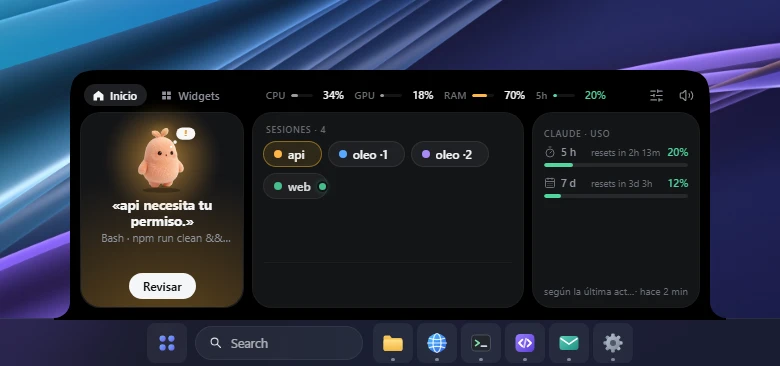
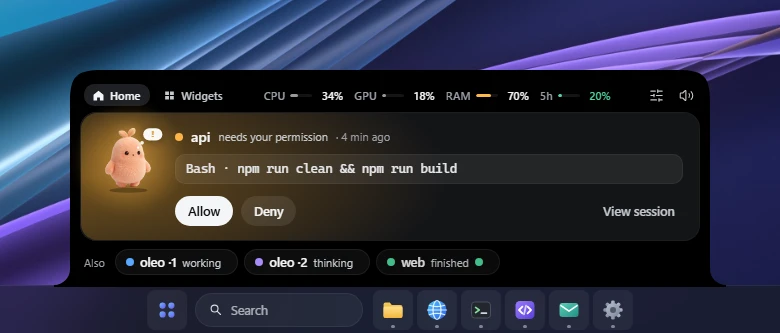
release: 0.2.3
Version 0.2.3 in package.json, Cargo.toml, tauri.conf.json and the two lock
files, with a changelog entry for the redesign of the island, Settings and
the agents list.

The README pictures are taken again from the new screens, in English. The
screenshot script takes --lang (en-US by default) and a shot's own
localStorage, and the stage starts the widgets, so the Shelf picture shows its
mosaic with a to-do list and a timer. Alt texts that no longer matched are
corrected in both READMEs.

windows/README.md now says why the installed oleo.exe has another hash than
the one in SHA256SUMS.txt (three bytes the bundler changes) and that the
installer's hash is the one to check.

diff --git a/windows/dev/claude-preview.ts b/windows/dev/claude-preview.ts
@@ -27,6 +27,7 @@ import { Display } from "../src/core/layout";
 import { handleHook, tellModel, type HookPayload } from "../src/island/hooks";
 import { Island } from "../src/island/island";
 import { Sound } from "../src/core/sound";
+import { startWidgets } from "../src/widgets";
 import { EXAMPLE_REPLY, LONG_REPLY } from "./preview-b/session-data";
 import { checkAutoHide, checkShelfSwipe, checkSlots, checkSwipe, checkUsage, checkWake } from "./preview-b/island-check";
 import { finishStage, installStage, placeIsland, rng } from "./stage";
@@ -853,6 +854,8 @@ const ask = (question = false) => {
   handleHook(island, { ...base, ...of, hook_event_name: "PermissionRequest", request_id: `shelf-ask-${++asked}`, ...tool });
 };
 Object.assign(window, { ask });
+// What the made-up Shelf kept (localStorage "oleo.shelf.fake.<widget>"): read once, as main.ts does, so a to-do list or a timer shows.
+startWidgets();
 if (params.get("tab") === "shelf") {
   island.setView("shelf");
   // The swipe's rules on a clock moved by hand (the console says how it went). With check=swipe, on the

diff --git a/windows/dev/stage/stage.ts b/windows/dev/stage/stage.ts
@@ -306,7 +306,7 @@ const terminal = () => `
 <p><b class="pw">PS</b> C:\\Users\\oleo\\code\\oleo&gt; <b class="cm">npx tsc --noEmit</b></p>
 <p class="o ok">Found 0 errors.</p>
 <p><b class="pw">PS</b> C:\\Users\\oleo\\code\\oleo&gt; <b class="cm">cargo test --workspace</b></p>
-<p class="o">   Compiling oleo v0.2.2 (C:\\Users\\oleo\\code\\oleo\\windows\\src-tauri)</p>
+<p class="o">   Compiling oleo v0.2.3 (C:\\Users\\oleo\\code\\oleo\\windows\\src-tauri)</p>
 <p class="o">    Finished test profile [unoptimized + debuginfo] target(s) in 14.20s</p>
 <p class="o">     Running unittests src\\lib.rs</p>
 <p class="o">running 41 tests</p>

diff --git a/README.md b/README.md
@@ -46,7 +46,7 @@ Oleo works with **Claude Code**, **Codex** and **Cursor**. It runs on your
 machine and talks to nothing but your own agents: no account, no telemetry.
 
 > [!NOTE]
-> Oleo is an early release (version 0.2.2). Windows 10 and 11 are the main
+> Oleo is an early release (version 0.2.3). Windows 10 and 11 are the main
 > target; the same code also builds for Linux, which is experimental. The
 > interface is in English, Spanish and Portuguese. Oleo is an independent project and is not
 > affiliated with or endorsed by Anthropic, OpenAI or Cursor.
@@ -55,7 +55,7 @@ machine and talks to nothing but your own agents: no account, no telemetry.
 
 <div align="center">
 
-<picture><source media="(prefers-color-scheme: light)" srcset="docs/assets/screens/hero-light.webp"><img src="docs/assets/screens/hero-dark.webp" alt="Oleo open on the Home view at 125% scaling: the card of the session that needs permission with Durazno, the three sessions as chips, and the CPU, GPU, RAM and Claude usage readings." width="860"></picture>
+<picture><source media="(prefers-color-scheme: light)" srcset="docs/assets/screens/hero-light.webp"><img src="docs/assets/screens/hero-dark.webp" alt="Oleo open on the Home view at 125% scaling: the card of the session that needs permission with Durazno, the other two sessions as chips, and the CPU, GPU, RAM and Claude usage readings." width="860"></picture>
 
 </div>
 
@@ -67,8 +67,8 @@ machine and talks to nothing but your own agents: no account, no telemetry.
 <td width="50%"><picture><source media="(prefers-color-scheme: light)" srcset="docs/assets/screens/question-light.webp"><img src="docs/assets/screens/question-dark.webp" alt="Claude Code asks which search engine to use; the island shows three options and an Other answer button." width="440"></picture><br><sub><b>Answer questions.</b> Pick an option, type your own answer, or skip.</sub></td>
 </tr>
 <tr>
-<td width="50%"><picture><source media="(prefers-color-scheme: light)" srcset="docs/assets/screens/session-agents-light.webp"><img src="docs/assets/screens/session-agents-dark.webp" alt="A session page: the journal of what Claude Code did, with its subagents listed under the parent session, each with its own state." width="440"></picture><br><sub><b>Follow a session.</b> A journal of what it did, and its subagents.</sub></td>
-<td width="50%"><picture><source media="(prefers-color-scheme: light)" srcset="docs/assets/screens/shelf-light.webp"><img src="docs/assets/screens/shelf-dark.webp" alt="The Widgets tab: media controls, a to-do list, a timer and reminders." width="440"></picture><br><sub><b>Widgets.</b> Media, to-dos, a timer, reminders and more, one swipe away.</sub></td>
+<td width="50%"><picture><source media="(prefers-color-scheme: light)" srcset="docs/assets/screens/session-agents-light.webp"><img src="docs/assets/screens/session-agents-dark.webp" alt="A session in one column: its title, state and model, filters by kind of step, and the journal of what Claude Code did, with three subagents launched together shown as one block." width="440"></picture><br><sub><b>Follow a session.</b> A journal of what it did, and its subagents.</sub></td>
+<td width="50%"><picture><source media="(prefers-color-scheme: light)" srcset="docs/assets/screens/shelf-light.webp"><img src="docs/assets/screens/shelf-dark.webp" alt="The Widgets tab as a mosaic: cards for the media player, the to-do list and the timer, and a shortcut for each other widget." width="440"></picture><br><sub><b>Widgets.</b> Media, to-dos, a timer, reminders and more, one swipe away.</sub></td>
 </tr>
 <tr>
 <td width="50%"><picture><source media="(prefers-color-scheme: light)" srcset="docs/assets/screens/over-browser-tabs-light.webp"><img src="docs/assets/screens/over-browser-tabs-dark.webp" alt="The Oleo island floating over the tab strip of a browser window." width="440"></picture><br><sub><b>Out of the way.</b> It floats over the tab strip and takes no space from your page.</sub></td>
@@ -76,7 +76,7 @@ machine and talks to nothing but your own agents: no account, no telemetry.
 </tr>
 <tr>
 <td width="50%"><picture><source media="(prefers-color-scheme: light)" srcset="docs/assets/screens/settings-hooks-diff-light.webp"><img src="docs/assets/screens/settings-hooks-diff-dark.webp" alt="Oleo Settings, Connections page, showing the exact diff of the changes it would make to Claude Code's settings file, with a dated backup and an Apply button." width="440"></picture><br><sub><b>Nothing changes behind your back.</b> You see the diff of your config before Oleo writes it.</sub></td>
-<td width="50%"><picture><source media="(prefers-color-scheme: light)" srcset="docs/assets/screens/settings-look-light.webp"><img src="docs/assets/screens/settings-look-dark.webp" alt="Oleo Settings, Appearance page: the mascot picker with Durazno, the interactive mascot switch and the window colours." width="440"></picture><br><sub><b>Meet Durazno.</b> It follows the pointer and reacts to clicks; you can switch that off.</sub></td>
+<td width="50%"><picture><source media="(prefers-color-scheme: light)" srcset="docs/assets/screens/settings-look-light.webp"><img src="docs/assets/screens/settings-look-dark.webp" alt="Oleo Settings, Look and colours page: the mascot picker with Durazno, the interactive mascot switch and the window colours." width="440"></picture><br><sub><b>Meet Durazno.</b> It follows the pointer and reacts to clicks; you can switch that off.</sub></td>
 </tr>
 </table>
 
@@ -128,7 +128,7 @@ code-signed, so Windows SmartScreen may say "Windows protected your PC": choose
 **More info**, then **Run anyway**, once you have checked the hash:
 
 ```powershell
-Get-FileHash .\Oleo-Windows-0.2.2-setup.exe -Algorithm SHA256
+Get-FileHash .\Oleo-Windows-0.2.3-setup.exe -Algorithm SHA256
 ```
 
 WebView2, which draws the island, ships with Windows 10 and 11.

diff --git a/README.es.md b/README.es.md
@@ -46,7 +46,7 @@ Oleo funciona con **Claude Code**, **Codex** y **Cursor**. Se ejecuta en tu
 equipo y solo habla con tus propios agentes: sin cuenta y sin telemetría.
 
 > [!NOTE]
-> Oleo es una versión temprana (0.2.2). Windows 10 y 11 son el objetivo
+> Oleo es una versión temprana (0.2.3). Windows 10 y 11 son el objetivo
 > principal; el mismo código también compila para Linux, de forma
 > experimental. La interfaz está en español, inglés y portugués. Oleo es un
 > proyecto independiente y no está afiliado ni respaldado por Anthropic, OpenAI
@@ -56,7 +56,7 @@ equipo y solo habla con tus propios agentes: sin cuenta y sin telemetría.
 
 <div align="center">
 
-<picture><source media="(prefers-color-scheme: light)" srcset="docs/assets/screens/hero-light.webp"><img src="docs/assets/screens/hero-dark.webp" alt="Oleo abierto en la vista de Inicio con escala del 125 %: la tarjeta de la sesión que necesita permiso con Durazno, las tres sesiones como etiquetas y los indicadores de CPU, GPU, RAM y uso de Claude." width="860"></picture>
+<picture><source media="(prefers-color-scheme: light)" srcset="docs/assets/screens/hero-light.webp"><img src="docs/assets/screens/hero-dark.webp" alt="Oleo abierto en la vista de Inicio con escala del 125 %: la tarjeta de la sesión que necesita permiso con Durazno, las otras dos sesiones como etiquetas y los indicadores de CPU, GPU, RAM y uso de Claude." width="860"></picture>
 
 </div>
 
@@ -68,8 +68,8 @@ equipo y solo habla con tus propios agentes: sin cuenta y sin telemetría.
 <td width="50%"><picture><source media="(prefers-color-scheme: light)" srcset="docs/assets/screens/question-light.webp"><img src="docs/assets/screens/question-dark.webp" alt="Claude Code pregunta qué motor de búsqueda usar; la isla muestra tres opciones y un botón para escribir otra respuesta." width="440"></picture><br><sub><b>Responde preguntas.</b> Elige una opción, escribe la tuya u omítela.</sub></td>
 </tr>
 <tr>
-<td width="50%"><picture><source media="(prefers-color-scheme: light)" srcset="docs/assets/screens/session-agents-light.webp"><img src="docs/assets/screens/session-agents-dark.webp" alt="La página de una sesión: el diario de lo que hizo Claude Code, con sus subagentes bajo la sesión principal, cada uno con su estado." width="440"></picture><br><sub><b>Sigue una sesión.</b> Un diario de lo que hizo y sus subagentes.</sub></td>
-<td width="50%"><picture><source media="(prefers-color-scheme: light)" srcset="docs/assets/screens/shelf-light.webp"><img src="docs/assets/screens/shelf-dark.webp" alt="La pestaña Widgets: controles de multimedia, lista de tareas, temporizador y recordatorios." width="440"></picture><br><sub><b>Widgets.</b> Multimedia, tareas, temporizador, recordatorios y más, a un deslizamiento.</sub></td>
+<td width="50%"><picture><source media="(prefers-color-scheme: light)" srcset="docs/assets/screens/session-agents-light.webp"><img src="docs/assets/screens/session-agents-dark.webp" alt="Una sesión en una columna: su título, estado y modelo, filtros por tipo de paso y el diario de lo que hizo Claude Code, con tres subagentes lanzados a la vez como un solo bloque." width="440"></picture><br><sub><b>Sigue una sesión.</b> Un diario de lo que hizo y sus subagentes.</sub></td>
+<td width="50%"><picture><source media="(prefers-color-scheme: light)" srcset="docs/assets/screens/shelf-light.webp"><img src="docs/assets/screens/shelf-dark.webp" alt="La pestaña Widgets como mosaico: tarjetas para el reproductor, la lista de tareas y el temporizador, y un acceso directo para cada uno de los demás widgets." width="440"></picture><br><sub><b>Widgets.</b> Multimedia, tareas, temporizador, recordatorios y más, a un deslizamiento.</sub></td>
 </tr>
 <tr>
 <td width="50%"><picture><source media="(prefers-color-scheme: light)" srcset="docs/assets/screens/over-browser-tabs-light.webp"><img src="docs/assets/screens/over-browser-tabs-dark.webp" alt="La isla de Oleo flotando sobre la barra de pestañas de una ventana de navegador." width="440"></picture><br><sub><b>Sin estorbar.</b> Flota sobre las pestañas y no le quita espacio a tu página.</sub></td>
@@ -131,7 +131,7 @@ tu PC»: elige **Más información** y luego **Ejecutar de todas formas**, una v
 que hayas comprobado el hash:
 
 ```powershell
-Get-FileHash .\Oleo-Windows-0.2.2-setup.exe -Algorithm SHA256
+Get-FileHash .\Oleo-Windows-0.2.3-setup.exe -Algorithm SHA256
 ```
 
 WebView2, que dibuja la isla, viene incluido en Windows 10 y 11.

diff --git a/CHANGELOG.md b/CHANGELOG.md
@@ -1,5 +1,40 @@
 # Changelog
 
+## 0.2.3
+
+A redesign of the island, Settings and the agents list, on one scale: five
+type sizes, three greys for text and four corner radii, in both themes and in
+English, Spanish and Portuguese.
+
+- Home puts what needs you first: the card of the request with its buttons,
+  and the other sessions in a row under it. When all is calm it is Durazno, one
+  line that sums it up and the chips. The usage limits stay in the header.
+  Allow and Deny appear on Home only for a plain command of the session in
+  front; an edit, a question or a request of another session opens the session
+  with Review or Answer, and a click right after a request appears is ignored.
+- Permission and question cards continue the Home card: who is asking is said
+  in words, the first six lines of an edit are shown whole with "See all N
+  changes", and a question's options are a list with what each one does.
+- A session is one column: a row of sessions, a header with the title, state,
+  model and files, filters by kind of step and the journal. Subagents launched
+  together are one block of the journal, with a line each, and the time is said
+  once per block. Left and Right no longer fold subagents: there is no tree.
+- The Widgets tab is a mosaic. What has something going on is a card, up to
+  three side by side; every other widget is a shortcut under them. The order in
+  Settings decides who goes first. The mirror and the projects are shortcuts
+  only.
+- Settings: Widgets in two columns with the names whole; Settings → About puts
+  each path on a line of its own with an "Open folder" button; the preview in
+  Island follows "Folded island" (the line, in the colour you chose, or the
+  capsule); shortcut keys are named in your language ("Espacio", "Espaço") and
+  a shortcut that works says nothing, while a refusal or a clash says why; the
+  sidebar has one mark of selection.
+- The agents list, when empty, says so with Durazno and tells you when agents
+  will show up there.
+- The folded island can be one line near the edge that turns amber when a
+  session needs you. A language setting (follow the system, English, Spanish
+  or Portuguese) covers the island, Settings, the agents list and the tray.
+
 ## 0.2.2
 
 - Codex's sessions in the island, with Allow / Deny for what Codex asks

diff --git a/windows/README.md b/windows/README.md
@@ -66,11 +66,13 @@ trust and its hash matches (below): choose **More info**, then **Run anyway**.
 To check a download against `SHA256SUMS.txt`:
 
 ```powershell
-Get-FileHash .\Oleo-Windows-0.2.2-setup.exe -Algorithm SHA256
+Get-FileHash .\Oleo-Windows-0.2.3-setup.exe -Algorithm SHA256
 ```
 
 The hash printed must be the one on the installer's line in `SHA256SUMS.txt`.
-The same works for an installed `oleo.exe` or `oleo-hook.exe`.
+The same works for an installed `oleo-hook.exe`. The installed `oleo.exe` is the
+listed one with three bytes changed: the bundler marks it as installed by the
+NSIS installer. The installer's own hash covers it, so that is the one to check.
 
 Both programs carry version information (Properties → Details): product
 "Oleo", author Franco Ruiz, and the version.
